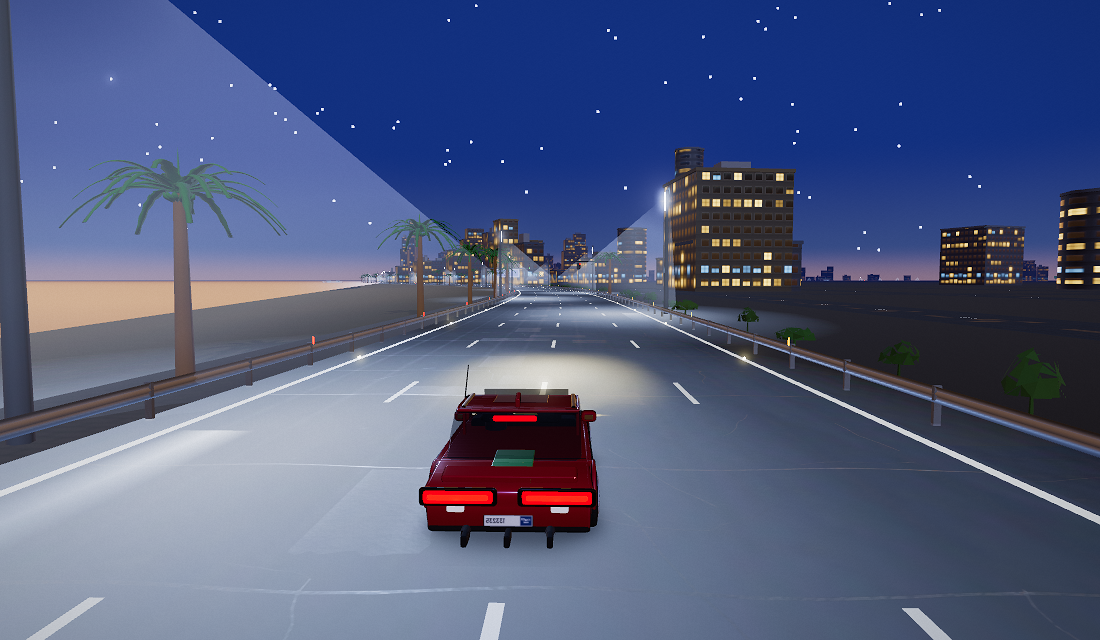
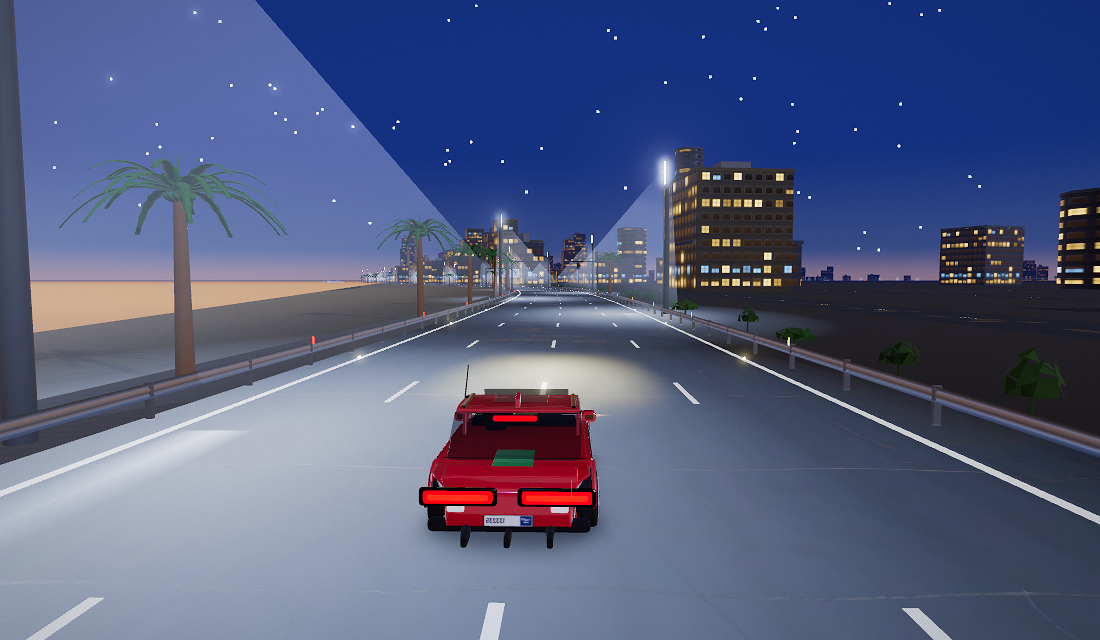
Ship the paint's reflection probe at 256 on the default tier
Every car's gloss is a clearcoat mirroring a cube rendered from the
player's car, and the size of that cube is the ceiling on how sharp
the reflection can read whatever the lacquer's roughness says. High
asks for 256 for exactly that reason, in a comment that says why. But
Auto — the tier every player who never opens Settings is on — never
goes through that path: RaceClient skips applyQualityTier for "auto",
and the tier's own branch returns before the sizes. So the default
game ran the probe at the constructor's 128 while the instrument that
tuned the paint measured at High. The constructor now builds it at
budget(256, "cube"), and setEffects re-asserts that whenever the probe
comes back on, so stepping down from Ultra or up from Battery lands
on the gloss size rather than on whatever was there.

The measurement needed two instrument fixes before it could be taken,
both in tools/shots/paint.mjs and both recorded there:

  - it never filled the probe. The cube is only rendered by the live
    frame loop, which the tool pauses first; applyQualityTier then
    rebuilds the target, and a rebuilt target is empty. Every reading
    it had ever taken was of a clearcoat mirroring a black cube.
  - it never pinned the sky. The game boots at the real hour in
    Kuwait and the lighting glides toward the 02:30 it asks for, so
    the first row of every session was a half-daylight frame — the
    press frame it wrote had a blue sky in it. fullrace.mjs and
[…]

diff --git a/src/game/engine.ts b/src/game/engine.ts
@@ -1937,7 +1937,32 @@ export class GameEngine {
     const floatOk =
       this.renderer.extensions.has("EXT_color_buffer_float") ||
       this.renderer.extensions.has("EXT_color_buffer_half_float");
-    this.cubeRT = new THREE.WebGLCubeRenderTarget(128, {
+    // 256, not 128 — and this is the size the DEFAULT tier ships, because
+    // Auto never goes through applyQualityTier's explicit-tier path where
+    // High asks for 256. So every player who never opened Settings had
+    // the paint mirroring a 128-face cube while the instrument that
+    // tuned the paint (tools/shots/paint.mjs) measured at High.
+    //
+    // Measured with that instrument once it was made to fill the probe
+    // and pin the night (it had been reading a black cube in a Kuwaiti
+    // morning — see its own comments). Gloss on #c1272d under the lamps,
+    // one session, 128 repeated at both ends to bracket the drift:
+    //
+    //   probe   dead    body   spec   ratio   highlight
+    //   128     0.7%    22.3   107.7    4.8     10.7%
+    //   256     0%      28.3   141.1    5.0      9.5%
+    //   512     0%      28.4   137.5    4.8      8.6%
+    //   128     0.3%    21.3    93.5    4.4      8.1%
+    //
+    // 256 makes the highlight 30-50% brighter than either 128 row while
+    // the fraction of the body it covers does not grow — a brighter image
+    // of a lamp, not a bigger smear of one, which is the whole distinction
+    // paint.mjs exists to draw. It also takes the dead panels to zero: at
+    // 128 the lamps between texels simply were not there to reflect. 512
+    // is inside the drift of 256, which is why Ultra keeps it and nobody
+    // else pays for it. Per-frame cost is unchanged in shape — one face a
+    // frame — and tests/framepacing.mjs holds the draw calls flat.
+    this.cubeRT = new THREE.WebGLCubeRenderTarget(this.budget(256, "cube"), {
       generateMipmaps: false,
       minFilter: THREE.LinearFilter,
       type: floatOk ? THREE.HalfFloatType : THREE.UnsignedByteType,
@@ -2649,6 +2674,12 @@ export class GameEngine {
     this.msaaTarget.samples = on ? 4 : 0;
     this.fxaaPass.enabled = !on;
     this.liveReflections = on;
+    // The probe at the gloss size whenever it is live. Auto is the one
+    // tier that reaches here without going on to the explicit sizes
+    // below, so a player stepping back from Ultra would otherwise keep
+    // its 512 on a tier that is not meant to pay for it — and one
+    // coming up from Battery would keep whatever was there.
+    if (on) this.setProbeResolution(this.budget(256, "cube"));
     this.applyLiveReflections();
   }
 
@@ -3691,10 +3722,12 @@ export class GameEngine {
    *  environment when the probe is off for performance). */
   /**
    * Rebuild the paint's reflection probe at a new face resolution.
-   * 128 is plenty at 1080p, but on a 4K panel the probe is the limiting
-   * factor in how the clearcoat reads — the lamp streaks that slide along
-   * the bodywork are literally probe texels, and at 128 they are visibly
-   * chunky once the frame carries four times the pixels.
+   * This used to say 128 was plenty at 1080p and only 4K needed more.
+   * Measured, it is not: at 128 the lamp streaks are probe texels
+   * smeared by the PMREM blur across a third of the bodywork at a
+   * 1100 px frame, never mind 4K — see the sweep on the constructor's
+   * target. The probe is the ceiling on how sharp a clearcoat can read,
+   * whatever the lacquer's roughness says.
    */
   private setProbeResolution(size: number): void {
     if (this.cubeRT.width === size) return;
